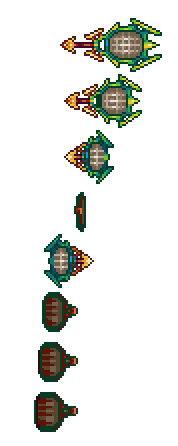
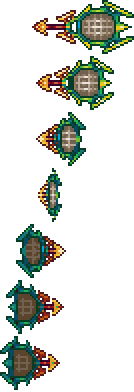
ae

Changed region(s): [[0.0, 0.0, 1.0, 1.0]]

diff --git a/Projectiles/TennisRackets/TerracketProj.cs b/Projectiles/TennisRackets/TerracketProj.cs
@@ -18,8 +18,8 @@ namespace EEMod.Projectiles.TennisRackets
 
         public override void SetDefaults()
         {
-            projectile.width = 114;
-            projectile.height = 50;
+            projectile.width = 134;
+            projectile.height = 56;
             projectile.timeLeft = 600;
             projectile.penetrate = -1;
             projectile.hostile = false;
@@ -33,7 +33,7 @@ namespace EEMod.Projectiles.TennisRackets
         }
 
         private int frame;
-        private readonly int numOfFrames = 8;
+        private readonly int numOfFrames = 7;
 
         public override void SendExtraAI(BinaryWriter writer)
         {

diff --git a/EEMod.cs b/EEMod.cs
@@ -729,7 +729,6 @@ namespace EEMod
             markerPlacer++;
             Player player = Main.LocalPlayer;
             EEPlayer eePlayer = Main.LocalPlayer.GetModPlayer<EEPlayer>();
-            Main.NewText(position);
             position.X = MathHelper.Clamp(position.X, Main.screenWidth * 0.6f, Main.screenWidth);
             position.Y = MathHelper.Clamp(position.Y, 0, Main.screenHeight);
             if (!Main.gamePaused)
